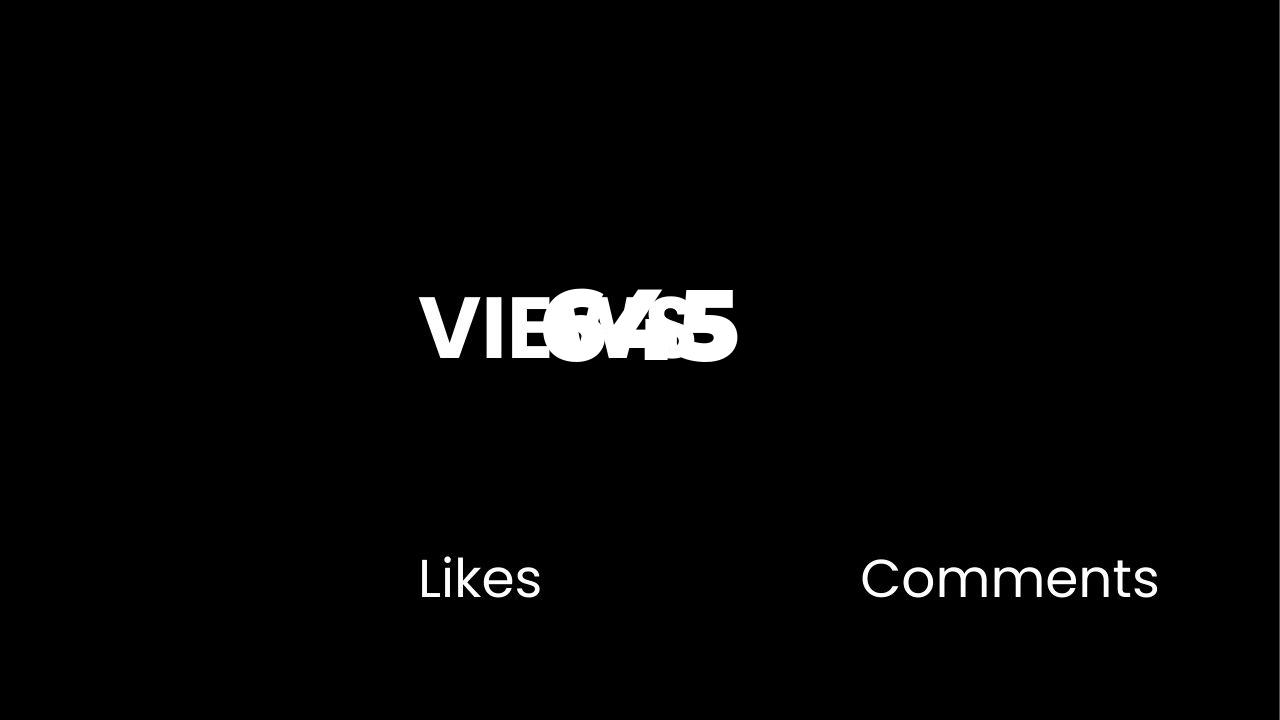
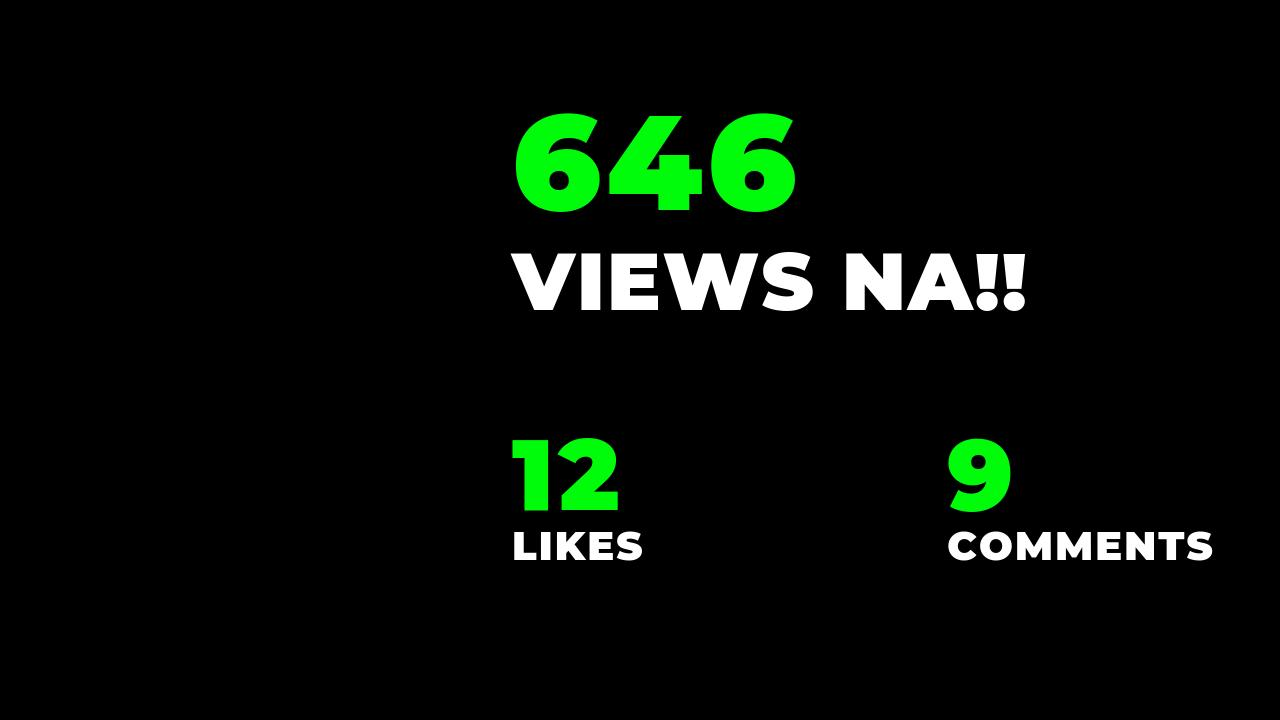
BETA

diff --git a/processor/app/service.js b/processor/app/service.js
@@ -2,8 +2,26 @@ const { google } = require('googleapis');
 const { createCanvas, loadImage, registerFont } = require('canvas');
 const path = require('path');
 const { createWriteStream } = require('fs');
+const fs = require('fs');
 
-const updateVideoDetails = async ({ views, videoId, refreshToken }) => {
+function formatNumber(number, limit) {
+    if (number >= limit) {
+        const divisor = limit >= 1_000_000 ? 1_000_000 : 1_000;
+        const suffix = limit >= 1_000_000 ? 'M' : 'k';
+
+        return (number / divisor).toFixed(1).replace(/\.0$/, '') + suffix;
+    } else {
+        return number.toLocaleString();
+    }
+}
+
+const updateVideoDetails = async ({
+    videoId,
+    views,
+    likes,
+    comments,
+    refreshToken,
+}) => {
     const client = new google.auth.OAuth2();
     client.setCredentials(JSON.parse(refreshToken));
     const youtube = google.youtube({ version: 'v3', auth: client });
@@ -17,7 +35,7 @@ const updateVideoDetails = async ({ views, videoId, refreshToken }) => {
             return;
         }
         const video = response.data.items[0];
-        video.snippet.title = `₱20 Pesos Bakal GYM in TONDO ${views}`;
+        video.snippet.title = `ANG VIDEO NA 'TO AY MERONG ${formatNumber(views, 100000)} VIEWS, ${formatNumber(likes, 10000)} LIKES AT ${formatNumber(views, 10000)} COMMENTS`;
         const updatedResponse = await youtube.videos.update({
             part: 'snippet',
             requestBody: {
@@ -46,15 +64,17 @@ const updateThumbnail = async ({
     const youtube = google.youtube({ version: 'v3', auth: client });
     try {
         await createThumbnail({ views, likes, comments });
-        // const response = await youtube.thumbnails.set({
-        //     videoId: videoId,
-        //     media: {
-        //         body: fs.createReadStream('./thumbnail.png'),
-        //     },
-        // });
-        //
-        // console.log('Thumbnail updated successfully!');
-        // console.log('Response:', response.data);
+        const response = await youtube.thumbnails.set({
+            videoId: videoId,
+            media: {
+                body: fs.createReadStream(
+                    path.join(__dirname, 'assets', 'processed-thumbnail.jpg'),
+                ),
+            },
+        });
+
+        console.log('Thumbnail updated successfully!');
+        console.log('Response:', response.data);
     } catch (err) {
         console.error('Action:', 'Update video thumbnail');
         console.error('Error:', err.message);
@@ -63,17 +83,101 @@ const updateThumbnail = async ({
 };
 
 const createThumbnail = async ({ views, likes, comments }) => {
+    const GREEN_COLOR = '#00fb0b';
+
+    const drawTextWithSpacing = (context, text, x, y, letterSpacing) => {
+        context.save();
+        let currentX = x;
+        for (let i = 0; i < text.length; i++) {
+            context.fillText(text[i], currentX, y);
+            currentX += context.measureText(text[i]).width + letterSpacing;
+        }
+        context.restore();
+    };
+
     try {
         const image = await loadImage(
-            path.join(__dirname, 'assets', 'original-thumbnail.jpg'),
+            path.join(
+                __dirname,
+                'assets',
+                `thumbnail-${Math.floor(Math.random() * 5) + 1}.jpg`, // Random numbers between - 5
+            ),
         );
         const canvas = createCanvas(image.width, image.height);
-        const ctx = canvas.getContext('2d');
-        ctx.drawImage(image, 0, 0);
-        ctx.font = '100px MontserratBlack';
-        ctx.fillStyle = 'white';
-        ctx.textAlign = 'left';
-        ctx.fillText(views, canvas.width / 2, canvas.height / 2);
+        const context = canvas.getContext('2d');
+        context.drawImage(image, 0, 0);
+
+        const textWidthBase = image.width * 0.4;
+        const textLengthBase = canvas.height / 2 - 50;
+
+        /*
+         * Views Count
+         * */
+        context.font = '135px MontserratBlack';
+        context.fillStyle = GREEN_COLOR;
+        context.textAlign = 'left';
+        await drawTextWithSpacing(
+            context,
+            formatNumber(views, 10000000),
+            textWidthBase,
+            textLengthBase - 100,
+            5,
+        );
+        context.font = '80px MontserratBlack';
+        context.fillStyle = 'white';
+        drawTextWithSpacing(
+            context,
+            'VIEWS NA!!',
+            textWidthBase,
+            textLengthBase,
+            2,
+        );
+
+        /*
+         * Likes Count
+         * */
+        context.font = '100px MontserratBlack';
+        context.fillStyle = GREEN_COLOR;
+        context.textAlign = 'left';
+        await drawTextWithSpacing(
+            context,
+            formatNumber(likes, 10000),
+            textWidthBase,
+            textLengthBase + 200,
+            5,
+        );
+        context.font = '40px MontserratBlack';
+        context.fillStyle = 'white';
+        drawTextWithSpacing(
+            context,
+            'LIKES',
+            textWidthBase,
+            textLengthBase + 250,
+            2,
+        );
+
+        /*
+         * Comments Count
+         * */
+        context.font = '100px MontserratBlack';
+        context.fillStyle = GREEN_COLOR;
+        context.textAlign = 'left';
+        await drawTextWithSpacing(
+            context,
+            formatNumber(comments, 10000),
+            textWidthBase * 1.85,
+            textLengthBase + 200,
+            5,
+        );
+        context.font = '40px MontserratBlack';
+        context.fillStyle = 'white';
+        drawTextWithSpacing(
+            context,
+            'COMMENTS',
+            textWidthBase * 1.85,
+            textLengthBase + 250,
+            2,
+        );
 
         const out = createWriteStream(
             path.join(__dirname, 'assets', 'processed-thumbnail.jpg'),
@@ -81,7 +185,6 @@ const createThumbnail = async ({ views, likes, comments }) => {
         const stream = canvas.createJPEGStream();
         stream.pipe(out);
 
-        // Wait for the file to finish saving
         await new Promise((resolve, reject) => {
             out.on('finish', resolve);
             out.on('error', reject);
@@ -110,7 +213,7 @@ const loadFonts = () => {
 };
 
 const process = async ({ views, videoId, likes, comments, refreshToken }) => {
-    // await updateVideoDetails({ videoId, views, refreshToken });
+    await updateVideoDetails({ videoId, views, likes, comments, refreshToken });
     await updateThumbnail({ videoId, views, likes, comments, refreshToken });
 };
 

diff --git a/puller/index.php b/puller/index.php
@@ -22,7 +22,9 @@ function getVideoDetails($videoId) {
 
     if ($client->isAccessTokenExpired()) {
         if ($client->getRefreshToken()) {
-            $client->fetchAccessTokenWithRefreshToken($client->getRefreshToken());
+            $accessToken = $client->fetchAccessTokenWithRefreshToken($client->getRefreshToken());
+            $client->setAccessToken($accessToken);
+            file_put_contents(__DIR__ . '/ytvu-refresh-token.json', json_encode($accessToken));
         } else {
             $authUrl = $client->createAuthUrl();
             echo "Open this URL in your browser to authenticate:\n$authUrl\n";
@@ -80,6 +82,6 @@ function updateVideoDetails($details) {
     return $response;
 }
 
-$videoId = 'nGvdHESlRwc';
+$videoId = $_ENV['YOUTUBE_VIDEO_ID'];
 getVideoDetails($videoId);
 ?>
